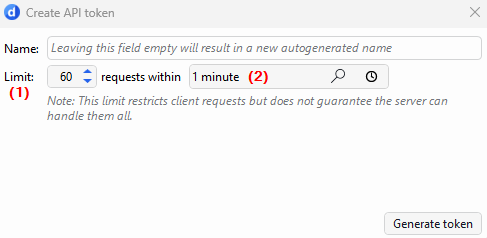
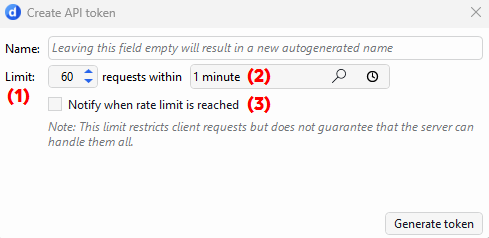
RN 46336

diff --git a/dataminer/Functions/User-Defined_APIs/UD_APIs_Viewing_in_Cube.md b/dataminer/Functions/User-Defined_APIs/UD_APIs_Viewing_in_Cube.md
@@ -14,7 +14,7 @@ uid: UD_APIs_Viewing_in_Cube
 1. Use the buttons below the table to create an API or token, or to edit or delete the selected API or token.
 
 ![API module in DataMiner Cube](~/dataminer/images/UDAPIS_Client_API_Module.png)<br>
-*User-Defined APIs page in DataMiner 10.6.9*
+*User-Defined APIs page in DataMiner 10.6.11*
 
 > [!NOTE]
 >
@@ -48,7 +48,12 @@ From DataMiner 10.6.9/10.7.0 onwards<!--RN 45751-->, when creating or editing an
 
    - Window (2): Sliding time window during which the limit applies (from 1 second to 1 day).
 
-   ![*Create API token* pop-up window](~/dataminer/images/Create_API_Token.png)<br>*Create API token window in DataMiner 10.6.9*
+   - Notice generation (3): Available from DataMiner 10.5.0 [CU20]/10.6.0 [CU8]/10.6.11 onwards<!--RN 46336-->. Enables a notice when the token reaches its configured rate limit. This option is disabled by default.
+
+     > [!NOTE]
+     > In earlier versions, this setting is not available in the UI. Where supported, configure `GenerateNotice` through the C# API instead. See [RateLimit](xref:UD_APIs_Objects_ApiToken#ratelimit).
+
+   ![*Create API token* pop-up window](~/dataminer/images/Create_API_Token.png)<br>*Create API token window in DataMiner 10.6.11*
 
 1. Select *Generate token*.
 
@@ -68,7 +73,12 @@ From DataMiner 10.6.9/10.7.0 onwards<!--RN 45751-->, when creating or editing an
 
    - Window (2): Sliding time window during which the limit applies (from 1 second to 1 day).
 
-   ![*Edit API token* pop-up window](~/dataminer/images/Edit_API_Token.png)<br>*Edit API token window in DataMiner 10.6.9*
+   - Notice generation (3): Available from DataMiner 10.5.0 [CU20]/10.6.0 [CU8]/10.6.11 onwards<!--RN 46336-->. Enables a notice when the token reaches its configured rate limit. This option is disabled by default.
+
+     > [!NOTE]
+     > In earlier versions, this setting is not available in the UI. Where supported, configure `GenerateNotice` through the C# API instead. See [RateLimit](xref:UD_APIs_Objects_ApiToken#ratelimit).
+
+   ![*Edit API token* pop-up window](~/dataminer/images/Edit_API_Token.png)<br>*Edit API token window in DataMiner 10.6.11*
 
 1. Select *Save and close*.
 

diff --git a/dataminer/Functions/User-Defined_APIs/Defining_an_API/Objects/UD_APIs_ApiToken.md b/dataminer/Functions/User-Defined_APIs/Defining_an_API/Objects/UD_APIs_ApiToken.md
@@ -77,6 +77,9 @@ Every request that can be linked to a token counts toward that token's rate limi
 
 From DataMiner 10.6.10/10.7.0 onwards<!-- RN 46244 -->, it is also possible to enable notice generation by setting `GenerateNotice` to `true` on the `ApiTokenRateLimit` of a token via the API.
 
+> [!IMPORTANT]
+> From DataMiner 10.5.0 [CU20], 10.6.0 [CU8], and 10.6.11 onwards<!-- RN 46336 -->, notice generation can be configured directly in *System Center* > *User-Defined APIs* when creating or editing a token. See [Configuring a rate limit for an API token](xref:UD_APIs_Viewing_in_Cube#configuring-a-rate-limit-for-an-api-token).
+
 When this is enabled, and the rate limit is exceeded on an endpoint, the *UserDefinableApiEndpoint* DxM sends a notification to the DataMiner Agent on the same server or virtual machine. The Agent then generates a notice.
 
 Only one notice is generated per token until you manually clear the notice. Notices are not cleared automatically. After you manually clear a notice, another notice is generated when the token reaches its rate limit again, subject to the one-minute suppression. If there has already been a rate limit notice in the previous minute, no additional notice is generated if the rate limit is exceeded again for the token.

diff --git a/dataminer/Functions/User-Defined_APIs/Defining_an_API/UD_APIs_Defining_a_new_API.md b/dataminer/Functions/User-Defined_APIs/Defining_an_API/UD_APIs_Defining_a_new_API.md
@@ -300,7 +300,12 @@ The headers listed below are **blocked** and will result in an error if you try 
 
    - Window (2): Sliding time window during which the limit applies (from 1 second to 1 day).
 
-   ![*Create API token* pop-up window](~/dataminer/images/Create_API_Token.png)<br>*Create API token window in DataMiner 10.6.9*
+   - Notice generation (3): Available from DataMiner 10.5.0 [CU20]/10.6.0 [CU8]/10.6.11 onwards<!--RN 46336-->. Enables a notice when the token reaches its configured rate limit. This option is disabled by default.
+
+     >[!NOTE]
+     > In earlier versions, this setting is not available in the UI. Where supported, configure `GenerateNotice` through the C# API instead. See [RateLimit](xref:UD_APIs_Objects_ApiToken#ratelimit).
+
+   ![*Create API token* pop-up window](~/dataminer/images/Create_API_Token.png)<br>*Create API token window in DataMiner 10.6.11*
 
    New tokens are created with a default rate limit of 60 requests per minute.
 
